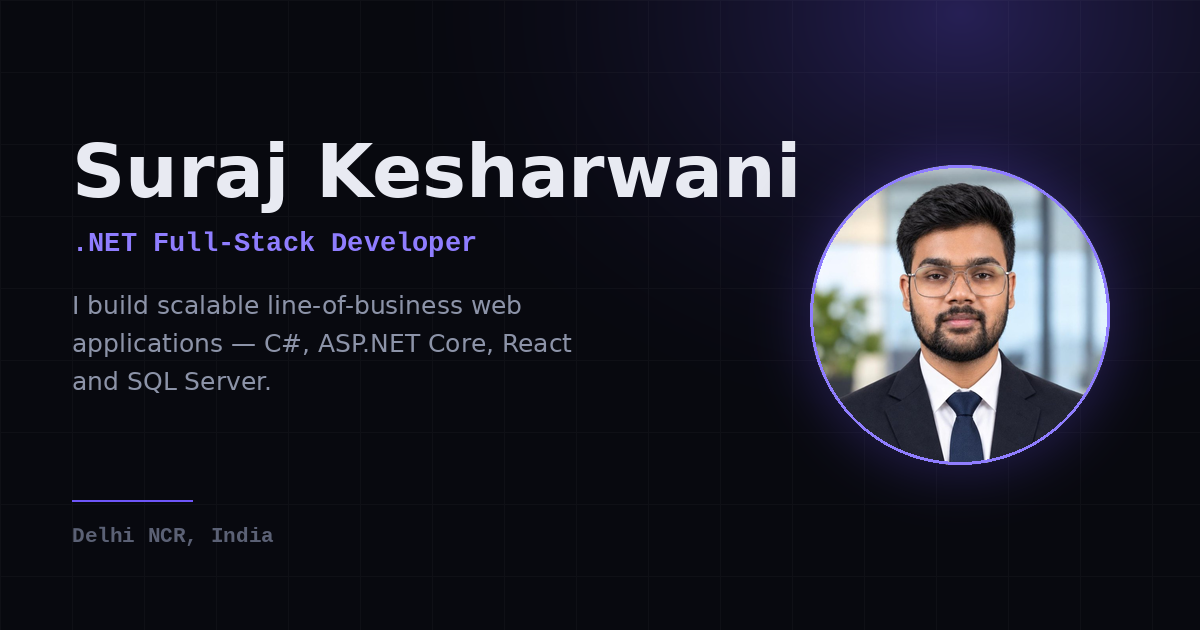
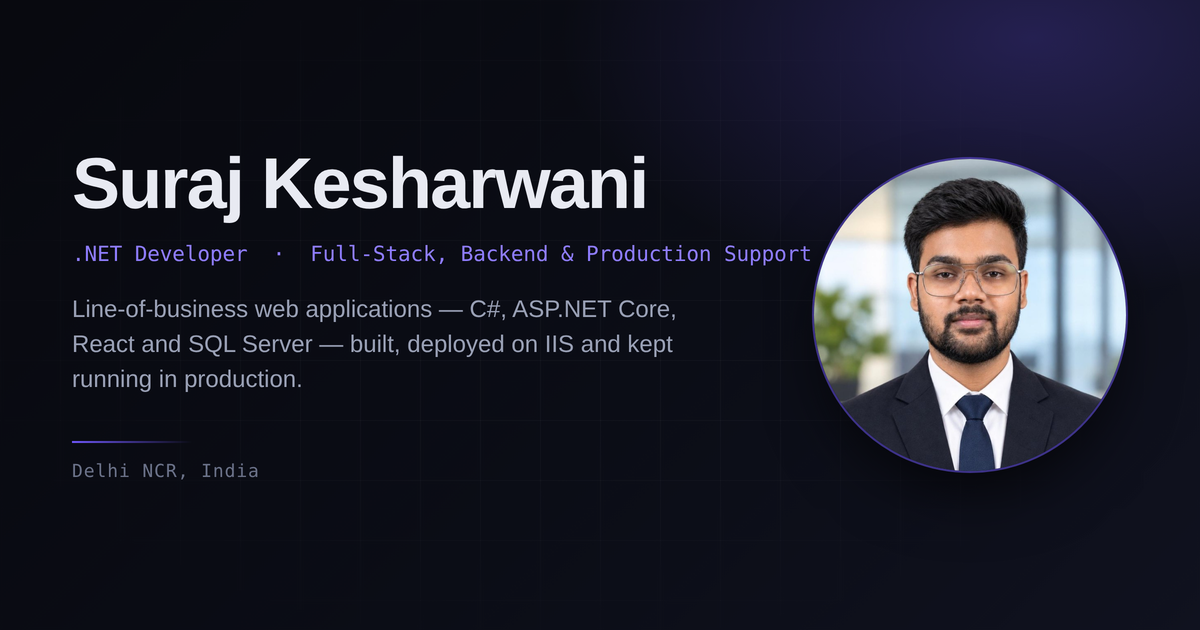
commit changes

diff --git a/index.html b/index.html
@@ -6,7 +6,7 @@
     <title>Suraj Kesharwani</title>
     <meta
       name="description"
-      content="Suraj Kesharwani — .NET Full-Stack Developer building scalable web applications with C#, ASP.NET Core, React and SQL Server."
+      content="Suraj Kesharwani — .NET Developer building and supporting line-of-business web applications with C#, ASP.NET Core, React, SQL Server and IIS."
     />
     <!-- Link preview (LinkedIn, WhatsApp, X, Slack).
          These MUST be absolute URLs. If you move to a custom domain,
@@ -14,20 +14,20 @@
     <meta property="og:type" content="website" />
     <meta property="og:site_name" content="Suraj Kesharwani" />
     <meta property="og:url" content="https://surajkesharwani.vercel.app/" />
-    <meta property="og:title" content="Suraj Kesharwani — .NET Full-Stack Developer" />
+    <meta property="og:title" content="Suraj Kesharwani — .NET Developer, Full-Stack & Production Support" />
     <meta
       property="og:description"
-      content="Scalable line-of-business web applications with C#, ASP.NET Core, React and SQL Server."
+      content="Line-of-business web applications with C#, ASP.NET Core, React and SQL Server — built, deployed on IIS and supported in production."
     />
     <meta property="og:image" content="https://surajkesharwani.vercel.app/og.png" />
     <meta property="og:image:width" content="1200" />
     <meta property="og:image:height" content="630" />
-    <meta property="og:image:alt" content="Suraj Kesharwani, .NET Full-Stack Developer" />
+    <meta property="og:image:alt" content="Suraj Kesharwani, .NET Developer — full-stack, backend and production support" />
     <meta name="twitter:card" content="summary_large_image" />
-    <meta name="twitter:title" content="Suraj Kesharwani — .NET Full-Stack Developer" />
+    <meta name="twitter:title" content="Suraj Kesharwani — .NET Developer, Full-Stack & Production Support" />
     <meta
       name="twitter:description"
-      content="Scalable line-of-business web applications with C#, ASP.NET Core, React and SQL Server."
+      content="Line-of-business web applications with C#, ASP.NET Core, React and SQL Server — built, deployed on IIS and supported in production."
     />
     <meta name="twitter:image" content="https://surajkesharwani.vercel.app/og.png" />
 
